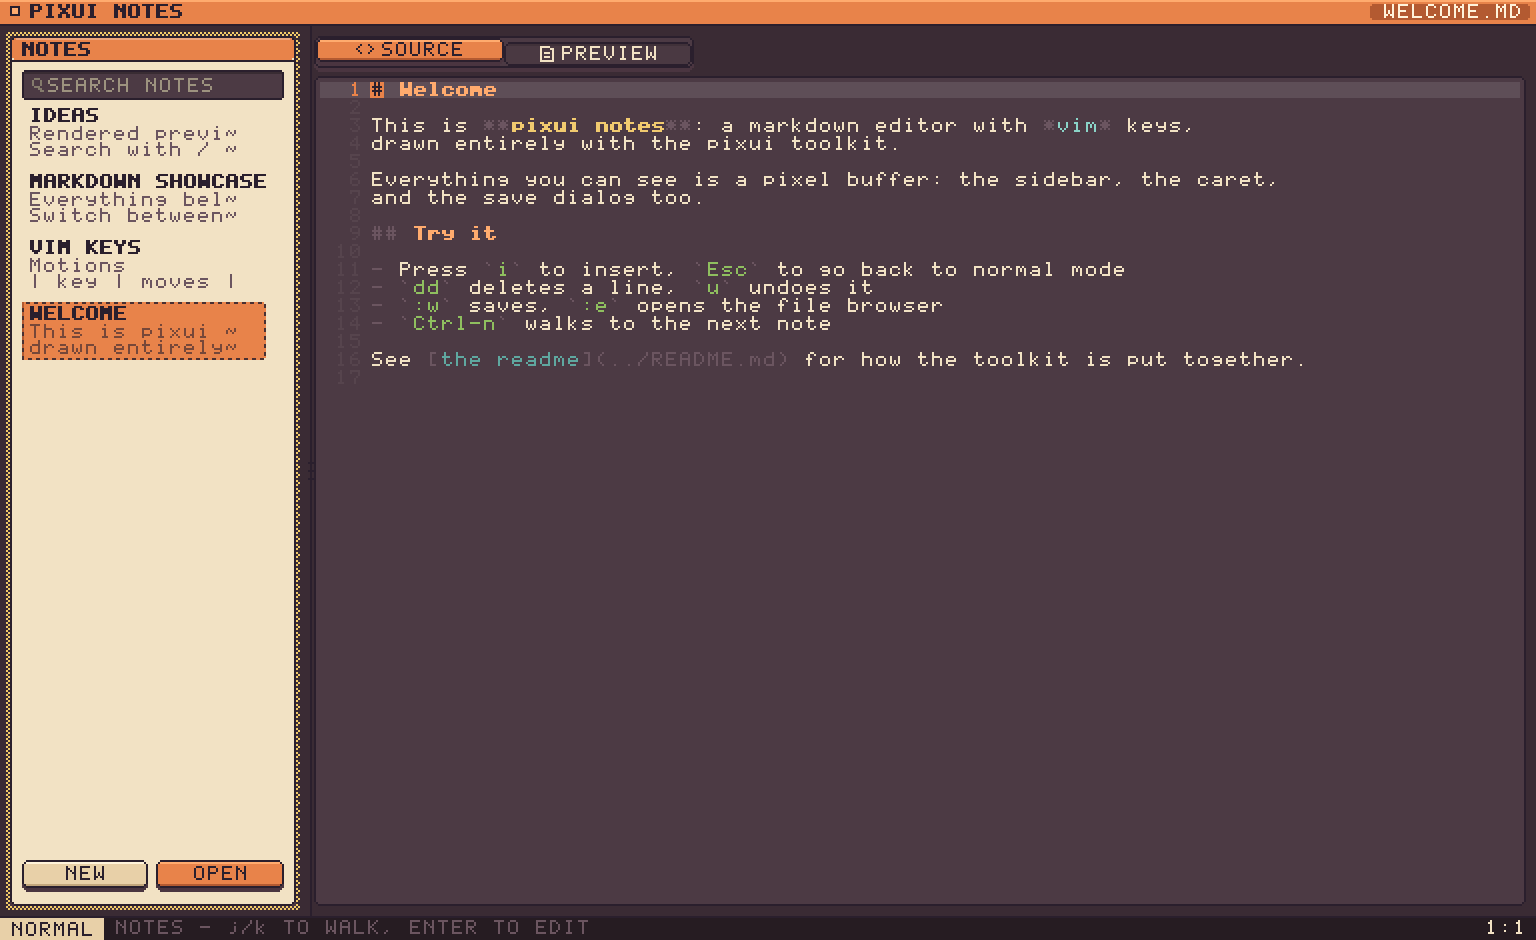
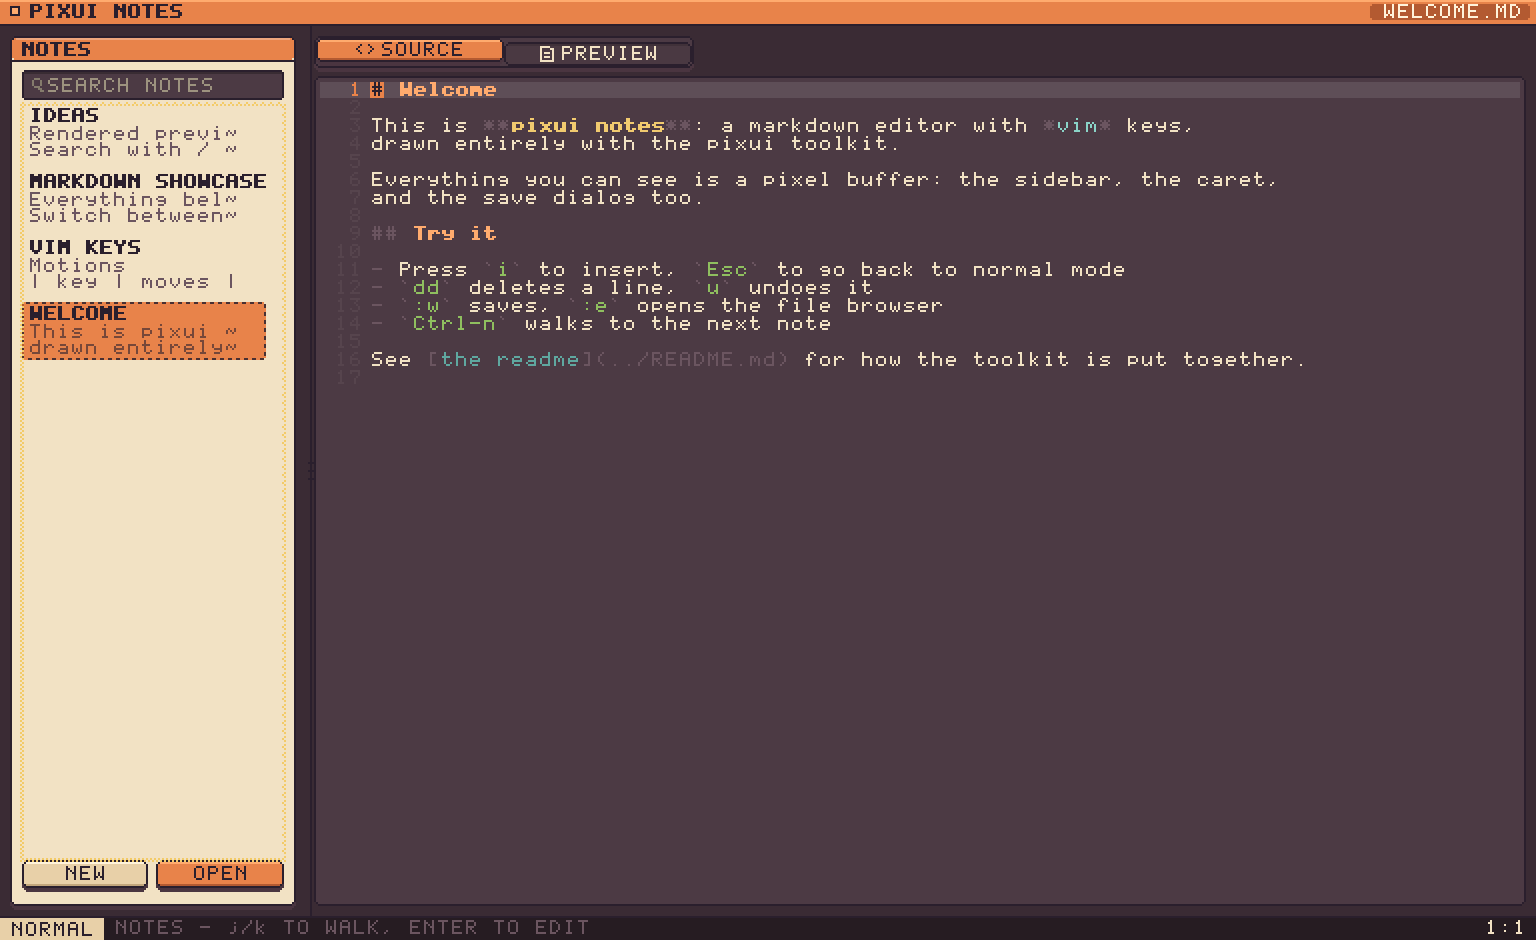
Land the focus cue on the widget, not on the drawer around it
Jumping to the search box flared the whole sidebar, because the cue was drawn
from outside where only the pane's container was known. The sidebar holds two
of the three panes, so that pointed at the wrong thing half the time: cmd-S
aims at a fifteen-pixel field and lit up everything.

It is drawn inside the sidebar now, where the field and the list are separate
rects, and last, so nothing paints over the ring.

Changed region(s): [[0.0, 0.8947, 0.0312, 0.9255]]

diff --git a/src/lib.rs b/src/lib.rs
@@ -585,12 +585,7 @@ pub fn frame(ui: &mut Ui, app: &mut Notes) {
         if width != before {
             app.sidebar_w = Some(width);
         }
-        draw_sidebar(ui, side.inset(5), app);
-        // The sidebar holds two of the three panes, so the cue lands on the
-        // whole drawer for either of them.
-        if app.pane != Pane::Editor {
-            ui.focus_flare("pane:side", side.inset(4), arrived);
-        }
+        draw_sidebar(ui, side.inset(5), app, arrived);
 
         // The two views of the same note: its source, and what it means.
         let pane = main.inset_xy(0, 5);
@@ -848,7 +843,7 @@ pub fn note_matches(note: &Note, needle: &str) -> bool {
         .any(|line| line.to_lowercase().contains(needle))
 }
 
-fn draw_sidebar(ui: &mut Ui, rect: Rect, app: &mut Notes) {
+fn draw_sidebar(ui: &mut Ui, rect: Rect, app: &mut Notes, arrived: bool) {
     let th = *ui.theme;
     let inner = ui.panel(rect, "NOTES");
     let (search, rest) = inner.split_top(17);
@@ -1017,6 +1012,14 @@ fn draw_sidebar(ui: &mut Ui, rect: Rect, app: &mut Notes) {
             }
         });
     });
+
+    // The cue lands on the thing that took the keys, not on the drawer that
+    // happens to contain it. Drawn last so nothing paints over the ring.
+    match app.pane {
+        Pane::Search => ui.focus_flare("pane:search", field, arrived),
+        Pane::Notes => ui.focus_flare("pane:list", list, arrived),
+        Pane::Editor => {}
+    }
 }
 
 // ------------------------------------------------------------------- preview

diff --git a/src/shots.rs b/src/shots.rs
@@ -213,6 +213,18 @@ pub fn run() -> std::io::Result<()> {
             settle: 3,
             canvas: (768, 470),
         },
+        // The same cue landing on the search box, which is the whole of what
+        // cmd-S aims at.
+        Scene {
+            name: "search-flare",
+            script: cmd('s'),
+            mouse: Point::new(-9, -9),
+            click_first: false,
+            double_click: false,
+            drag: None,
+            settle: 3,
+            canvas: (768, 470),
+        },
         // Cmd-N hands the keyboard to the note list, which says so with a
         // marching ring on the row j and k will move.
         Scene {
